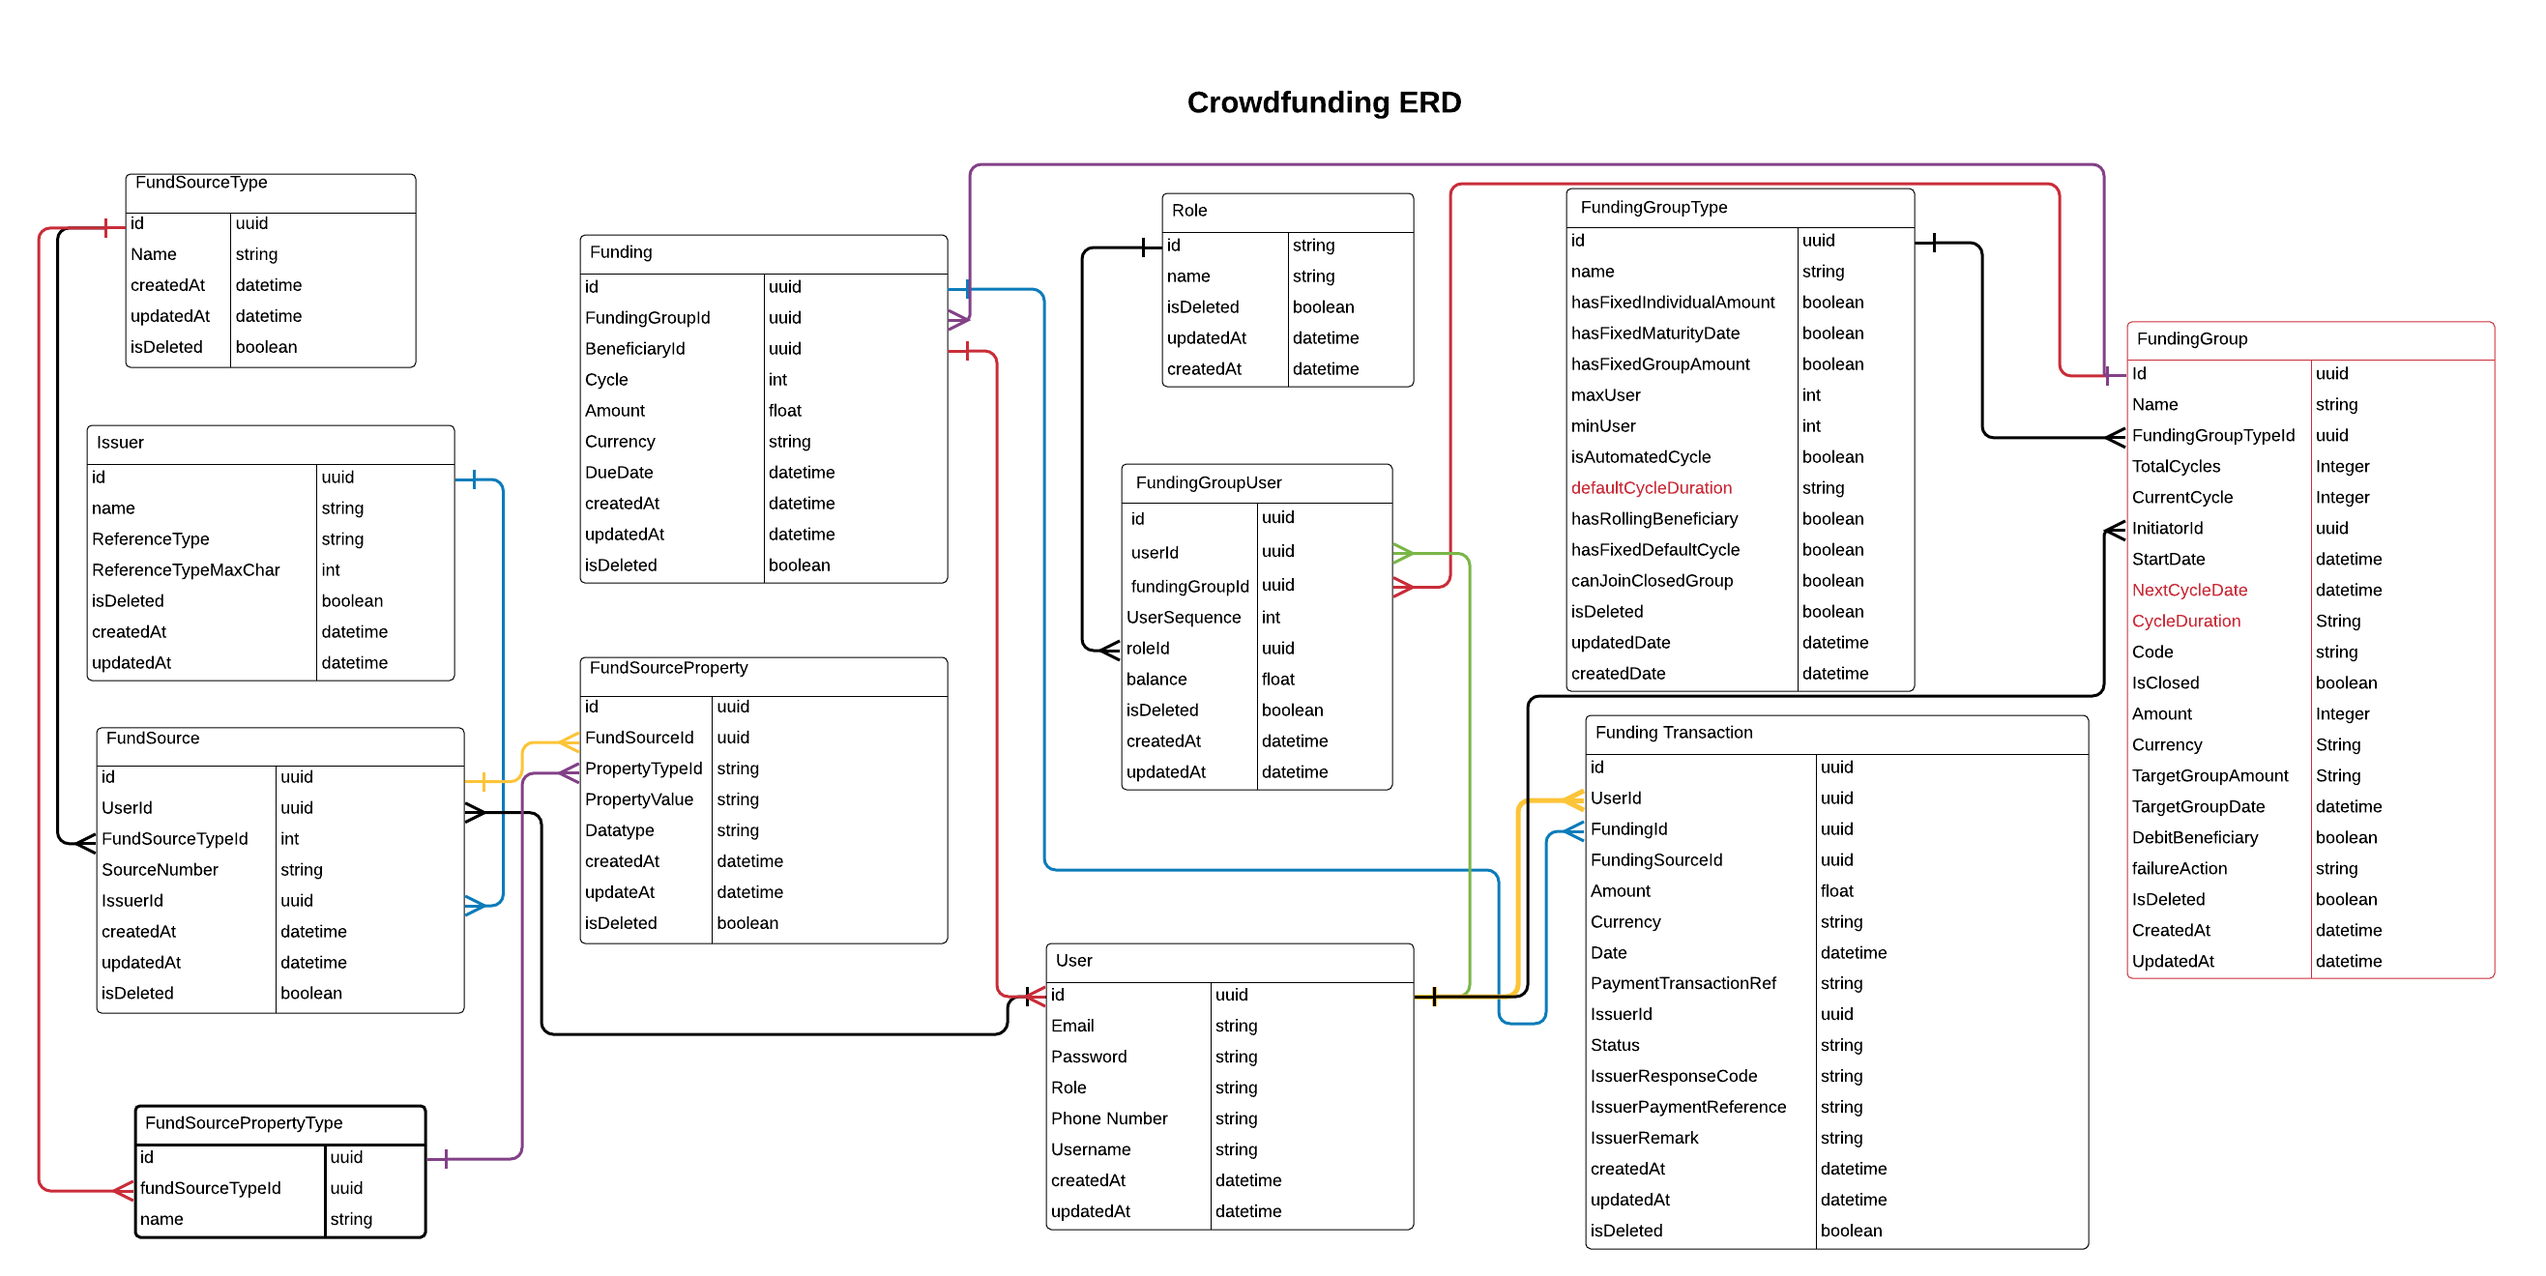
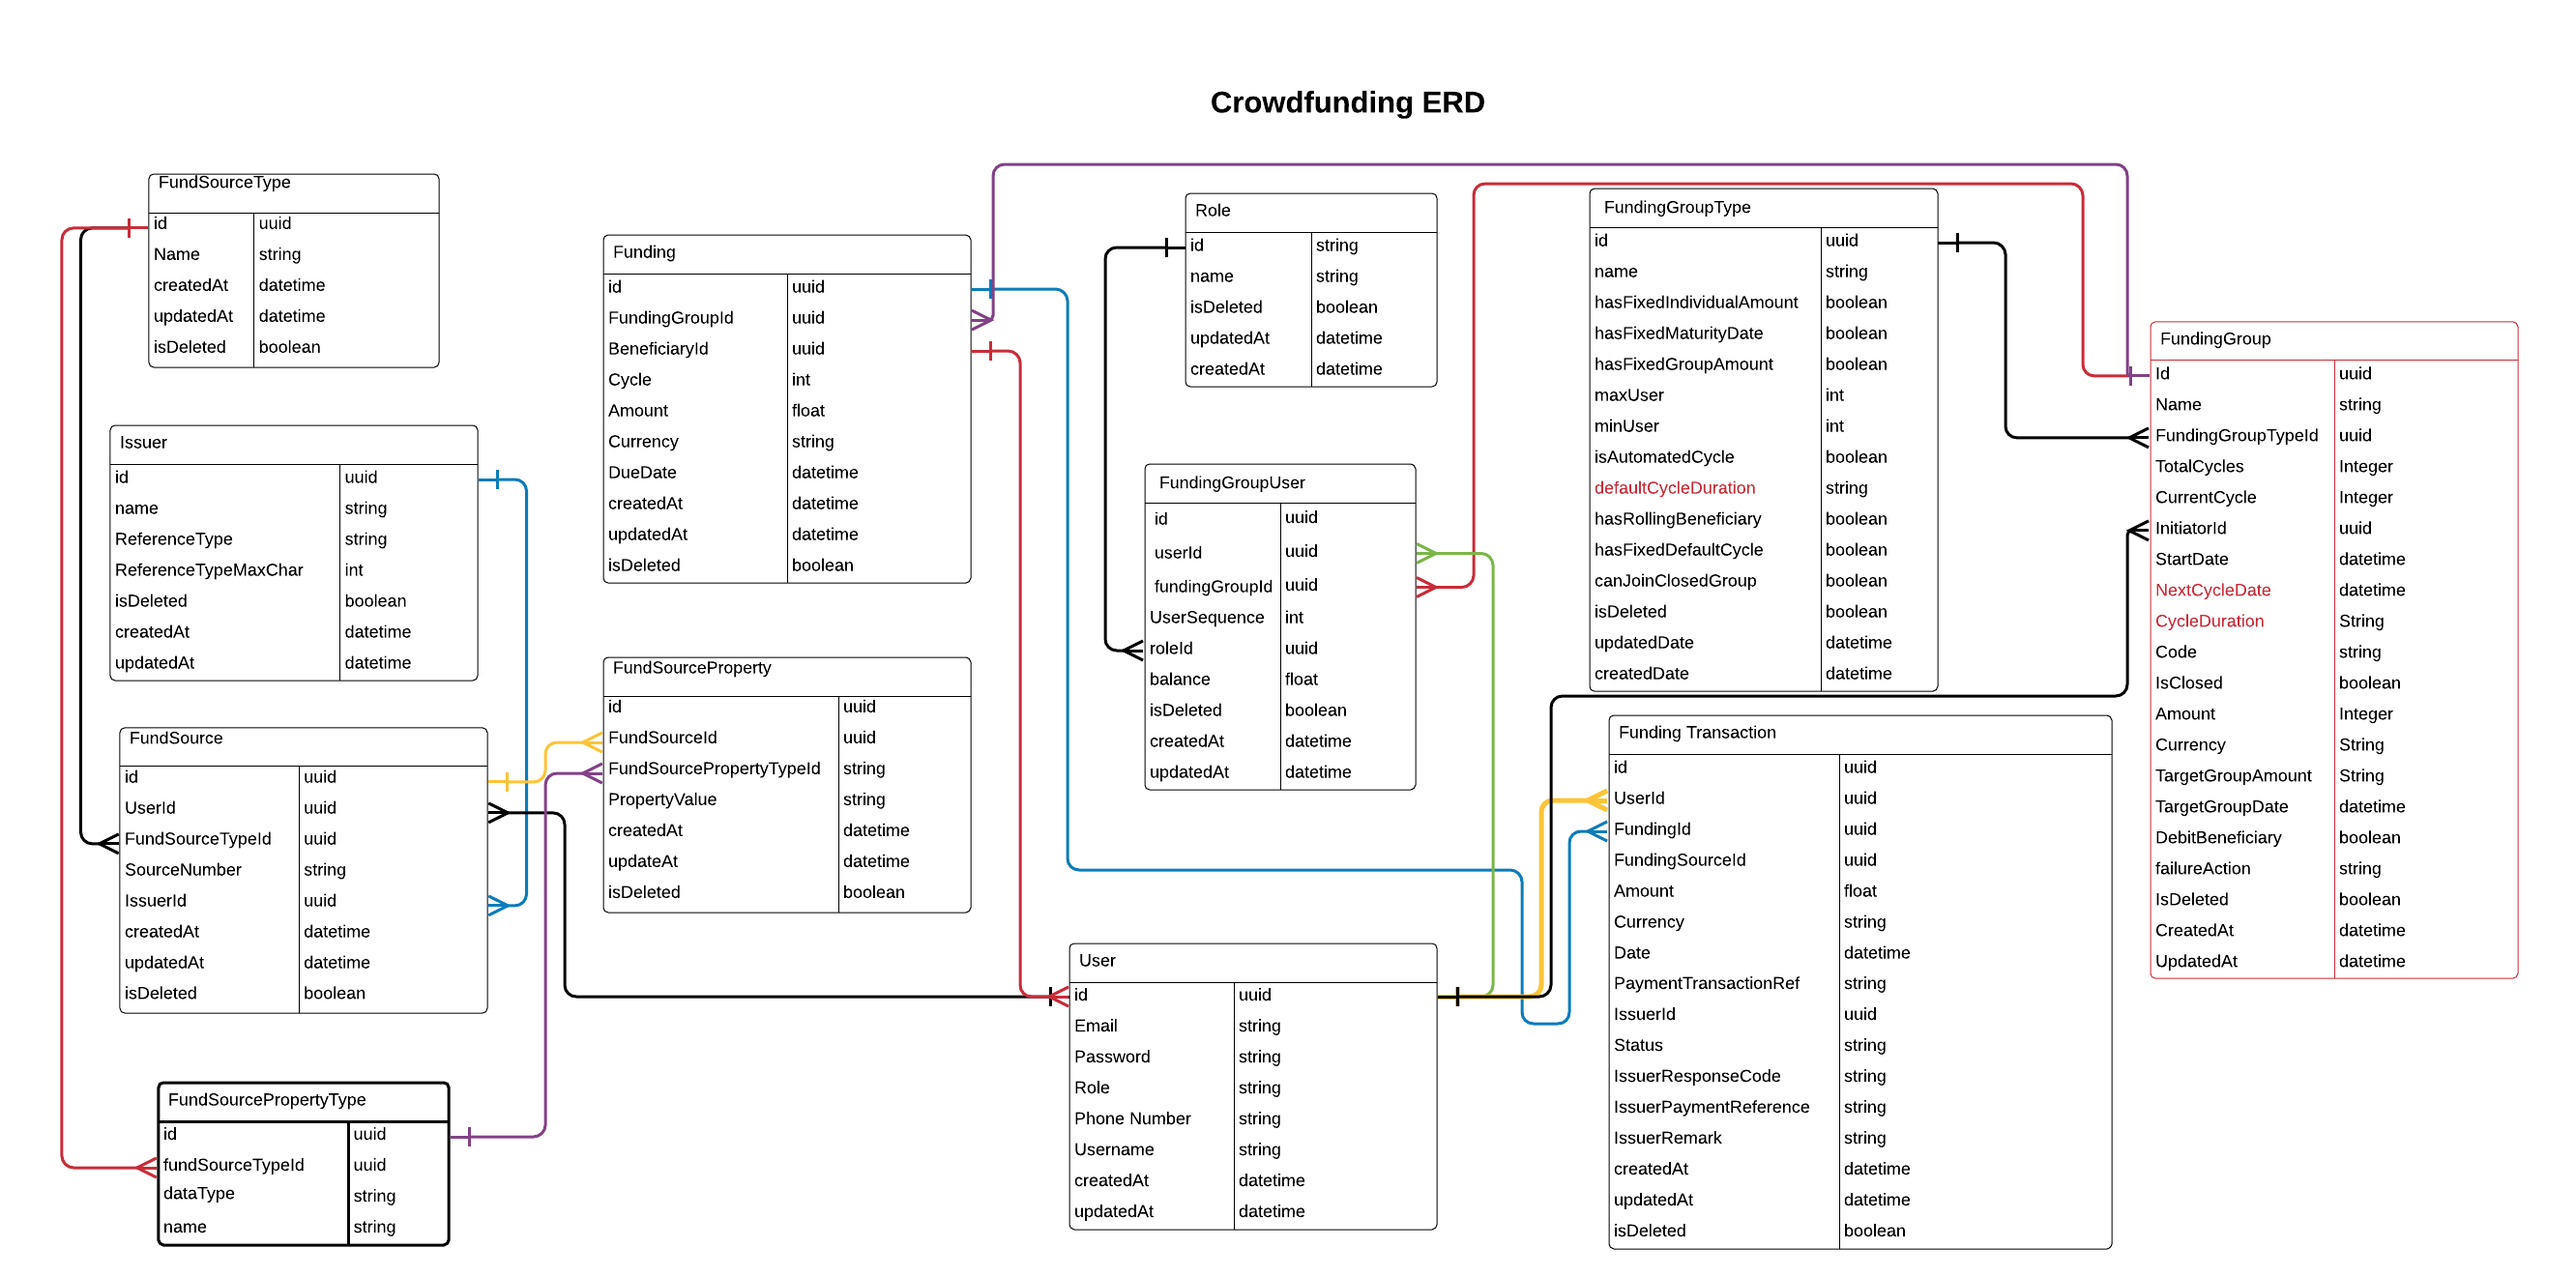
chore(models): create models
- add FundingSource model, serializer, repository
- add FundingSourceProperty model, serializer, repository
- add FundingSourcePropertyType model, serializer, repository

diff --git a/src/DataAccessLayer/models.py b/src/DataAccessLayer/models.py
@@ -6,3 +6,6 @@ from DataAccessLayer.FundingSourceType.model import FundingSourceType
 from DataAccessLayer.Issuer.model import Issuer
 from DataAccessLayer.FundingGroupUser.model import FundingGroupUser
 from DataAccessLayer.FundingTransaction.model import FundingTransaction
+from .FundingSource.model import FundingSource
+from .FundingSourceProperty.model import FundingSourceProperty
+from .FundingSourcePropertyType.model import FundingSourcePropertyType

diff --git a/src/DataAccessLayer/FundingSourcePropertyType/serializer.py b/src/DataAccessLayer/FundingSourcePropertyType/serializer.py
@@ -1,0 +1,9 @@
+from rest_framework import serializers
+from DataAccessLayer.FundingGroupType.model import FundingGroupType
+from ..DynamicSerializer import DynamicFieldsModelSerializer
+
+class FundingSourcePropertyTypeSerializer(DynamicFieldsModelSerializer):
+
+    class Meta:
+        model = FundingGroupType
+        fields = ('__all__')

diff --git a/src/DataAccessLayer/FundingSourceProperty/serializer.py b/src/DataAccessLayer/FundingSourceProperty/serializer.py
@@ -1,0 +1,9 @@
+from rest_framework import serializers
+from DataAccessLayer.FundingGroupType.model import FundingGroupType
+from ..DynamicSerializer import DynamicFieldsModelSerializer
+
+class FundingSourcePropertySerializer(DynamicFieldsModelSerializer):
+
+    class Meta:
+        model = FundingGroupType
+        fields = ('__all__')

diff --git a/src/DataAccessLayer/FundingSource/serializer.py b/src/DataAccessLayer/FundingSource/serializer.py
@@ -1,0 +1,9 @@
+from rest_framework import serializers
+from DataAccessLayer.FundingGroupType.model import FundingGroupType
+from ..DynamicSerializer import DynamicFieldsModelSerializer
+
+class FundingSourceSerializer(DynamicFieldsModelSerializer):
+
+    class Meta:
+        model = FundingGroupType
+        fields = ('__all__')

diff --git a/src/DataAccessLayer/FundingSourcePropertyType/model.py b/src/DataAccessLayer/FundingSourcePropertyType/model.py
@@ -1,0 +1,8 @@
+from django.db import models
+from ..BaseModel import BaseModel
+from django.utils.translation import ugettext as _
+
+class FundingSourcePropertyType(BaseModel):
+    fundingSourceTypeId = models.UUIDField(editable=False)
+    name = models.CharField(default=False)
+    dataType = models.CharField(max_length=64)

diff --git a/src/DataAccessLayer/FundingSource/model.py b/src/DataAccessLayer/FundingSource/model.py
@@ -1,0 +1,8 @@
+from django.db import models
+from ..BaseModel import BaseModel
+
+class FundingSource(BaseModel):
+    userId = models.UUIDField(editable=False)
+    fundingSourceTypeId = models.UUIDField(editable=False)
+    sourceNumber = models.CharField()
+    issuerId = models.UUIDField(editable=False)

diff --git a/src/DataAccessLayer/FundingSourceProperty/model.py b/src/DataAccessLayer/FundingSourceProperty/model.py
@@ -1,0 +1,7 @@
+from django.db import models
+from ..BaseModel import BaseModel
+
+class FundingSourceProperty(BaseModel):
+    fundingSourceTypeId = models.UUIDField(editable=False)
+    fundingSourcePropertyTypeId = models.UUIDField(editable=False)
+    propertyValue = models.CharField(null=False)

diff --git a/src/DataAccessLayer/FundingSourcePropertyType/repository.py b/src/DataAccessLayer/FundingSourcePropertyType/repository.py
@@ -1,0 +1,4 @@
+from DataAccessLayer.BaseRepository import BaseRepository
+
+class FundingSourcePropertyTypeRepository(BaseRepository):
+    pass

diff --git a/src/DataAccessLayer/FundingSourceProperty/repository.py b/src/DataAccessLayer/FundingSourceProperty/repository.py
@@ -1,0 +1,4 @@
+from DataAccessLayer.BaseRepository import BaseRepository
+
+class FundingSourcePropertyRepository(BaseRepository):
+    pass

diff --git a/src/DataAccessLayer/FundingSource/repository.py b/src/DataAccessLayer/FundingSource/repository.py
@@ -1,0 +1,4 @@
+from DataAccessLayer.BaseRepository import BaseRepository
+
+class FundingSourceRepository(BaseRepository):
+    pass
